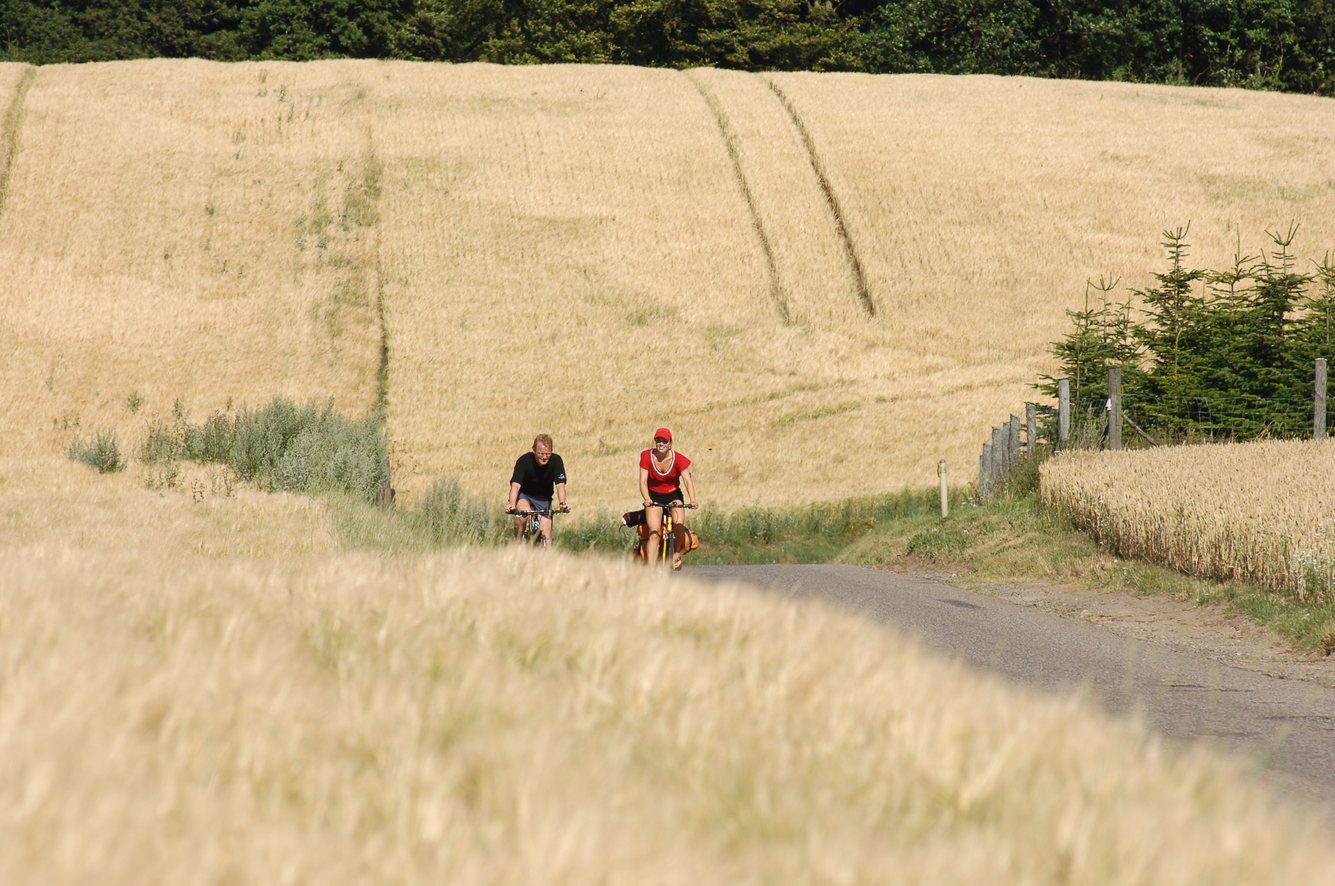
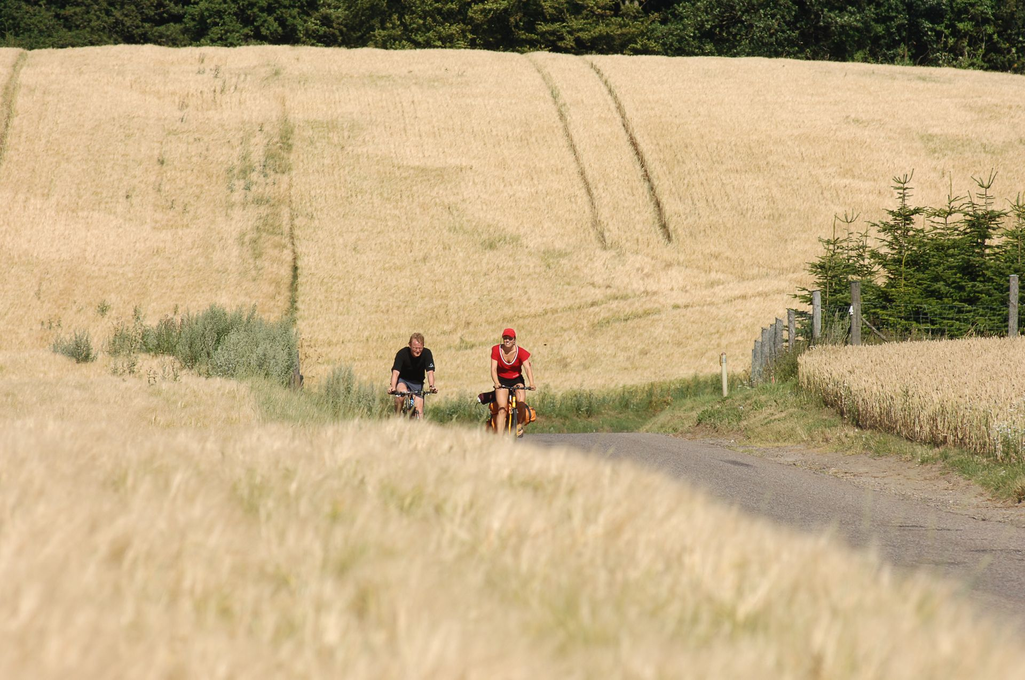
Better images

diff --git a/gulpfile.js b/gulpfile.js
@@ -1,0 +1,96 @@
+// modified from generator-jekyllized 1.0.0-rc.6
+"use strict";
+var gulp = require("gulp");
+var newer = require("gulp-newer");
+var responsive = require("gulp-responsive");
+var size = require("gulp-size");
+const imagemin = require('gulp-imagemin');
+
+var paths = {};
+
+// Folder naming conventions.
+paths.assetsFolderName = "assets";
+paths.imageFolderName = "images";
+paths.siteFolderName = "";
+paths.sourceFolderName = "/home/ec2-user/environment/cykelferie";
+
+// Directory locations.
+paths.sourceDir = paths.sourceFolderName + "/";
+paths.assetsDir = paths.assetsFolderName + "/";
+
+// Paths
+paths.imageFiles = paths.sourceDir + paths.assetsDir + paths.imageFolderName;
+paths.imagePattern =
+  "/**/*.+(jpg|JPG|jpeg|JPEG|png|PNG|svg|SVG|gif|GIF|webp|WEBP|tif|TIF)";
+paths.imageFilesGlob = paths.imageFiles + paths.imagePattern;
+  
+// Edit these paths
+paths.imageFilesActivitiesOriginals = paths.sourceDir + "/src/images/routes/originals";
+paths.imageFilesActivitiesDestination = paths.imageFiles + "/routes/";
+
+// 'gulp images:optimize' -- optimize images
+gulp.task("images:optimize", () => {
+  return gulp
+    .src(paths.imageFiles)
+    .pipe(
+      imagemin(
+        [
+          imagemin.gifsicle({ interlaced: true }),
+          imagemin.jpegtran({ progressive: true }),
+          imagemin.optipng(),
+          imagemin.svgo({ plugins: [{ cleanupIDs: false }] })
+        ],
+        { verbose: true }
+      )
+    )
+    .pipe(gulp.dest(paths.imageFiles));
+});
+
+
+// 'gulp images:feature' -- resize images
+gulp.task("images:routes", () => {
+
+  return gulp
+    .src([
+      paths.imageFilesActivitiesOriginals + paths.imagePattern,
+      "!" + paths.imageFilesActivitiesOriginals + "/**/*.{gif,svg}"
+    ])
+    .pipe(
+      responsive(
+        {
+          // resize all images
+          "*.*": [
+            {
+              width: 320,
+              rename: { suffix: "-320" }
+            },
+            {
+              width: 768,
+              rename: { suffix: "-768" }
+            },
+            {
+              width: 1920,
+              rename: { suffix: "" }
+            }
+          ]
+        },
+        {
+          // global configuration for all images
+          errorOnEnlargement: false,
+          withMetadata: false,
+          errorOnUnusedConfig: false
+        }
+      )
+    )
+    .pipe(gulp.dest(paths.imageFilesActivitiesDestination))
+});
+
+gulp.task(
+  "images",
+  gulp.series(
+    gulp.series(
+      "images:routes",
+      "images:optimize"
+    )
+  )
+);
